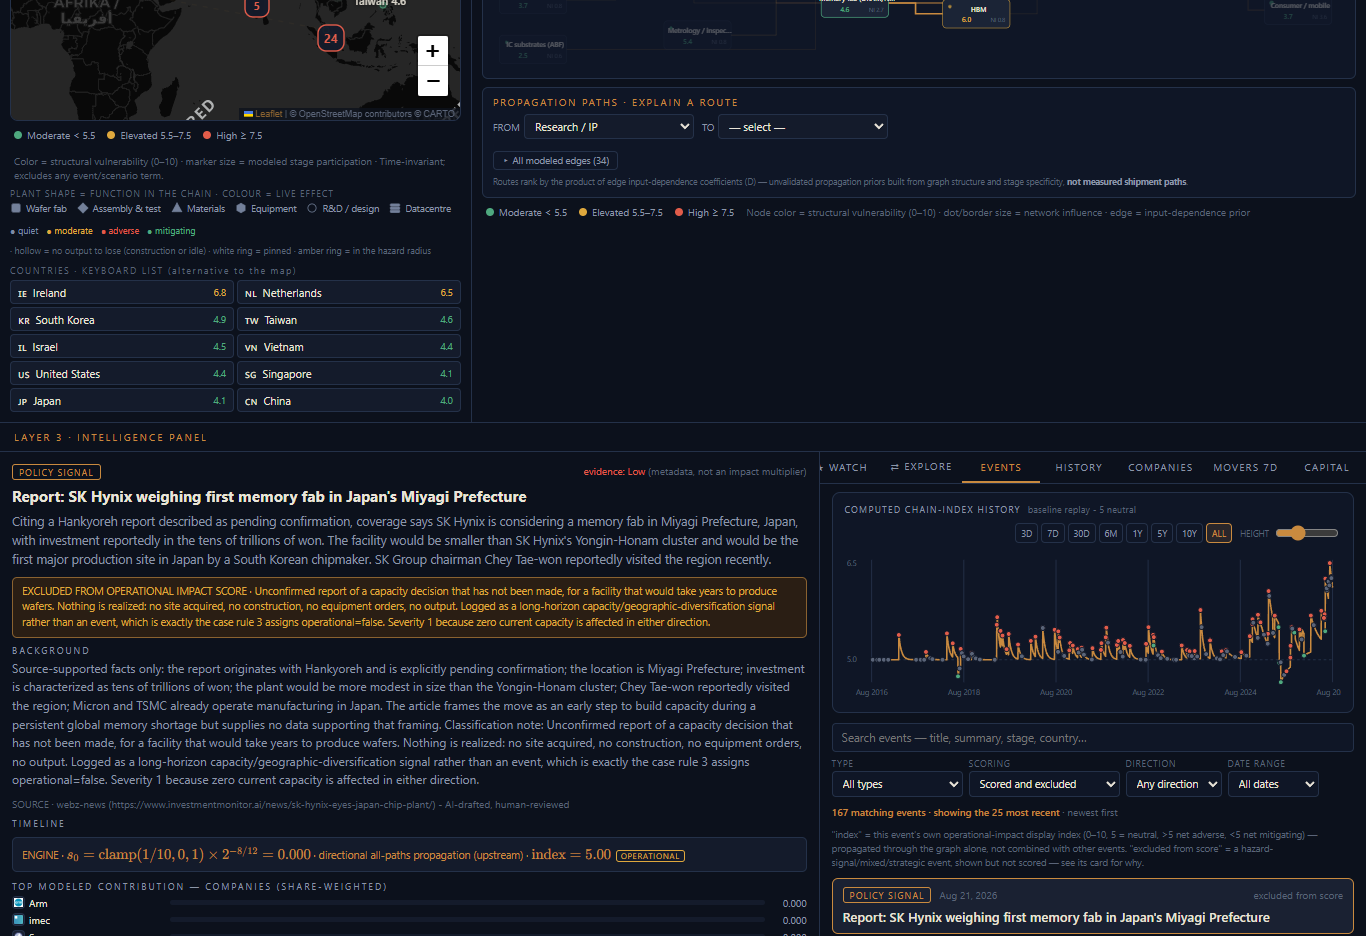
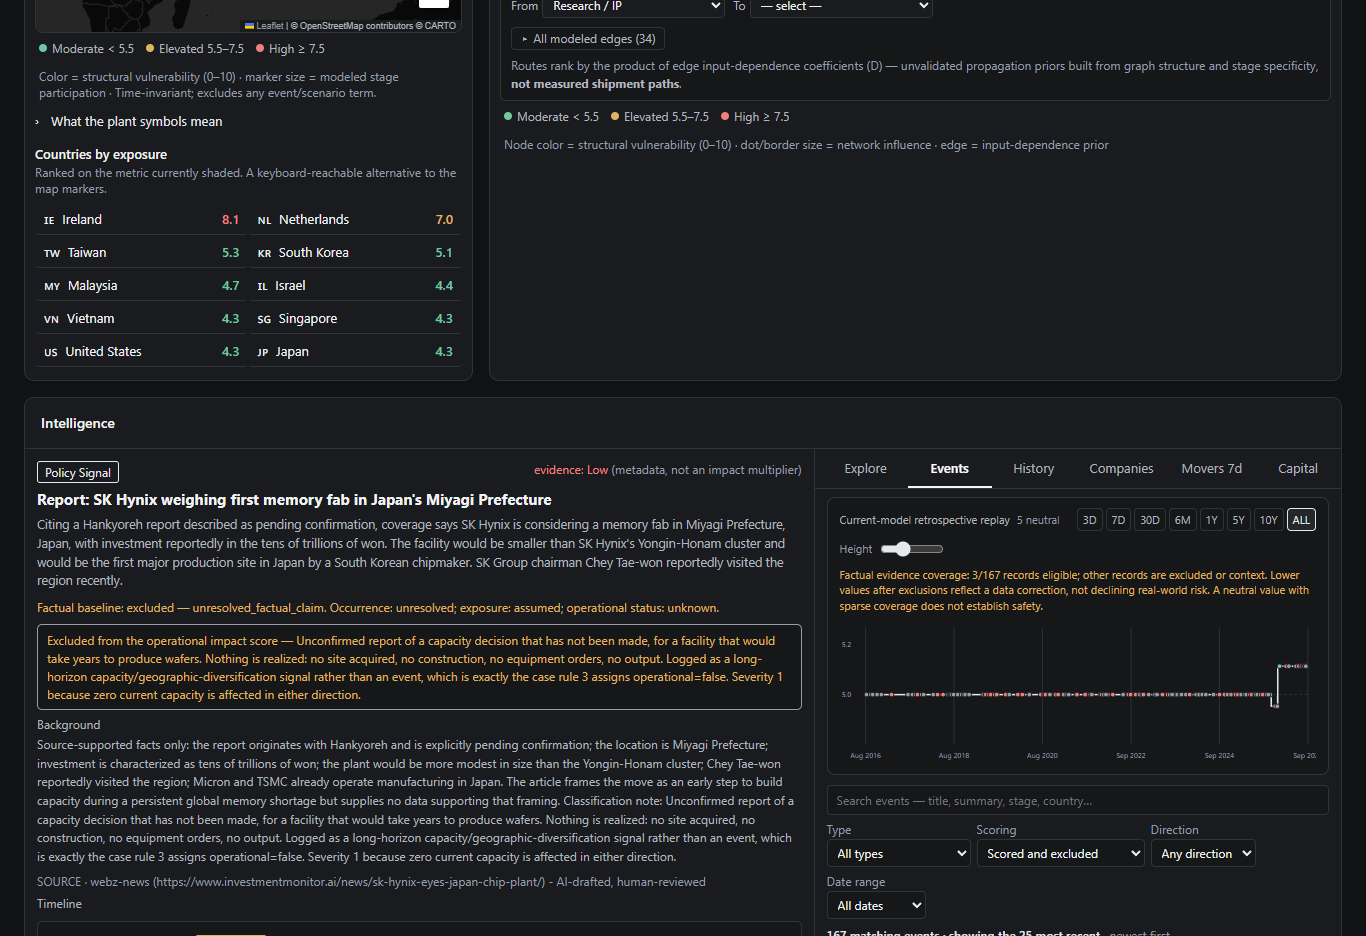
Recapture the product screenshots against the current interface
Every screenshot in the repository dated from September 4, before the
theme control, the header language picker and the unified documentation
theme. The landing page's hero is a real capture of the dashboard, so it
was advertising an interface the product no longer has.

Regenerated: the landing hero (app/public/product-dashboard.png, rebuilt
into the page so the shot on the landing page matches the app it links
to) and the seven README captures. DESIGN_PASS.md's before/after pair is
left alone — it is a record of the 0.7.1 pass, and overwriting "after"
with a later interface would make the comparison describe something that
never happened.

Pin the capture theme instead of inheriting it. Playwright's default
context is light, so the first regeneration came back light throughout,
not because the product changed its default but because the harness has
one — theme.js falls back to dark when the OS states no preference. Both
harnesses now name the scheme; `--scheme light` captures the light
record. Smoke is 193/193 with the pin, and its document checks still
drive both themes by clicking.

Also adds the documentation reader to the README table. It is the newest
part of the interface and had no screenshot at all.

diff --git a/README.md b/README.md
@@ -23,6 +23,7 @@ fitted to nothing.
 | **Facility Playground · TSMC Fab 18** — 53 inbound and 7 outbound relationships, with the visible count stated exactly and the table beside it reaching every one | ![TSMC Fab 18](docs/screenshots/playground-tsmc-fab18.png) |
 | **Facility Playground · ASML, two hops** — multi-hop traversal, upstream left, downstream right | ![ASML two hops](docs/screenshots/playground-asml-2hop.png) |
 | **Mobile** — search, graph, filters and details stack | ![Mobile playground](docs/screenshots/playground-mobile-375x812.png) |
+| **Documentation** — every Markdown file in the repository is published as its own page, sharing the app's theme and language, each dated from its own Git history | ![Documentation](docs/screenshots/document-dark-1366.png) |
 
 ---
 

diff --git a/docs/DESIGN_PASS.md b/docs/DESIGN_PASS.md
@@ -14,6 +14,10 @@ every country score and the whole computed history.
 
 Captured by `npm run shots`, which drives the built artifact at four viewports
 with animation disabled, so two runs of one build produce the same images.
+The theme is pinned rather than inherited from the harness — these are the
+dark theme, which is what the product falls back to when the operating
+system states no preference; `npm run shots -- --scheme light` captures the
+light record.
 
 | | Before | After |
 | --- | --- | --- |
